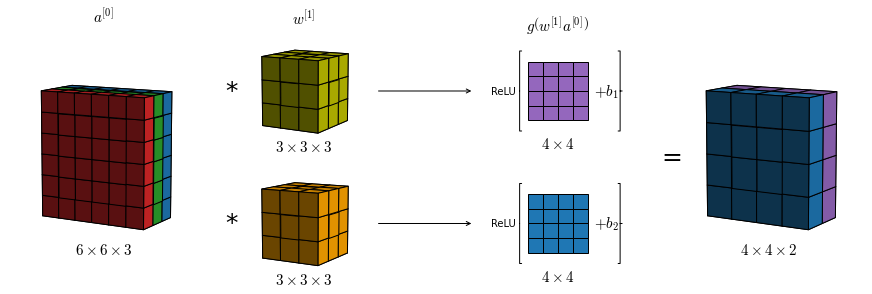
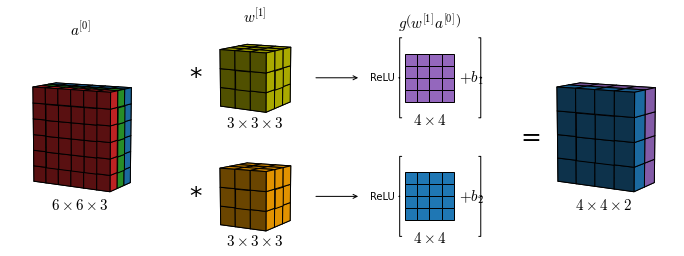
test transparent bkg on 3d plots

diff --git a/docs/pages/ML-34-DeepLearningCNN2.md b/docs/pages/ML-34-DeepLearningCNN2.md
@@ -15,3 +15,8 @@ From what we have seen in <a hre="ML33#fig:multifilter">the multiple filters fig
 ![png](ML-34-DeepLearningCNN2_files/ML-34-DeepLearningCNN2_2_0.png)
     
 
+
+
+```python
+
+```
